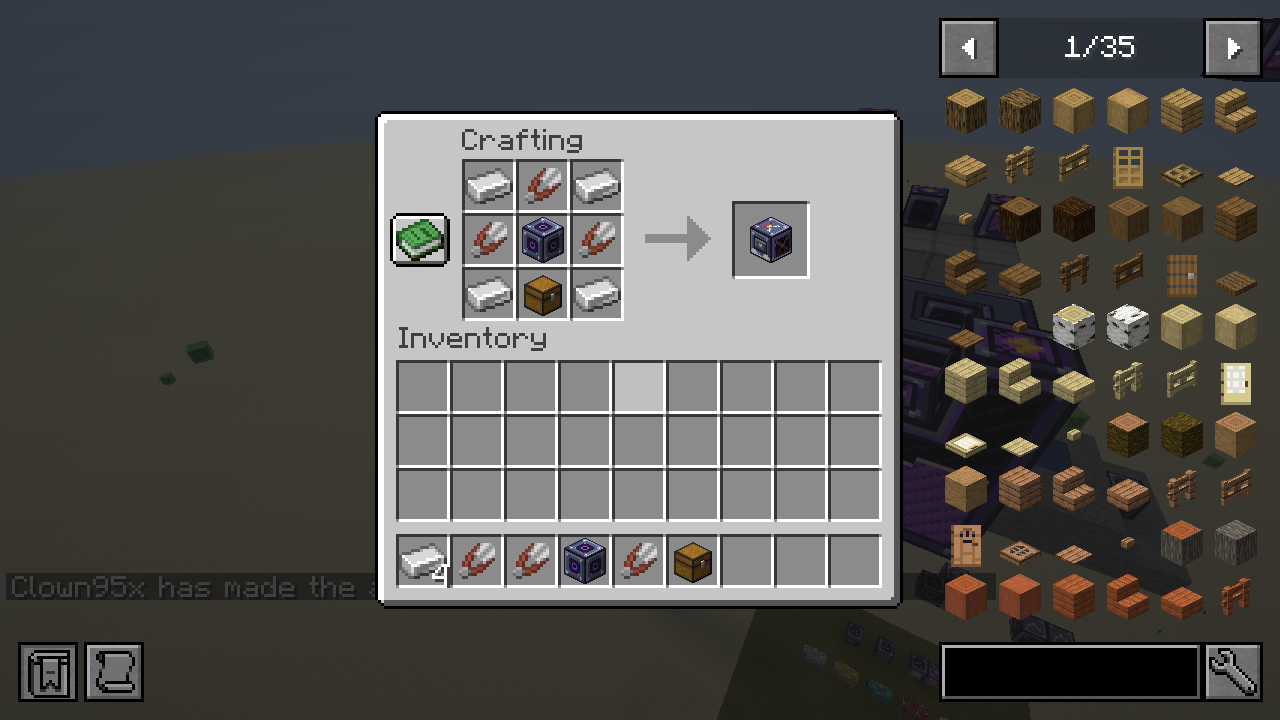
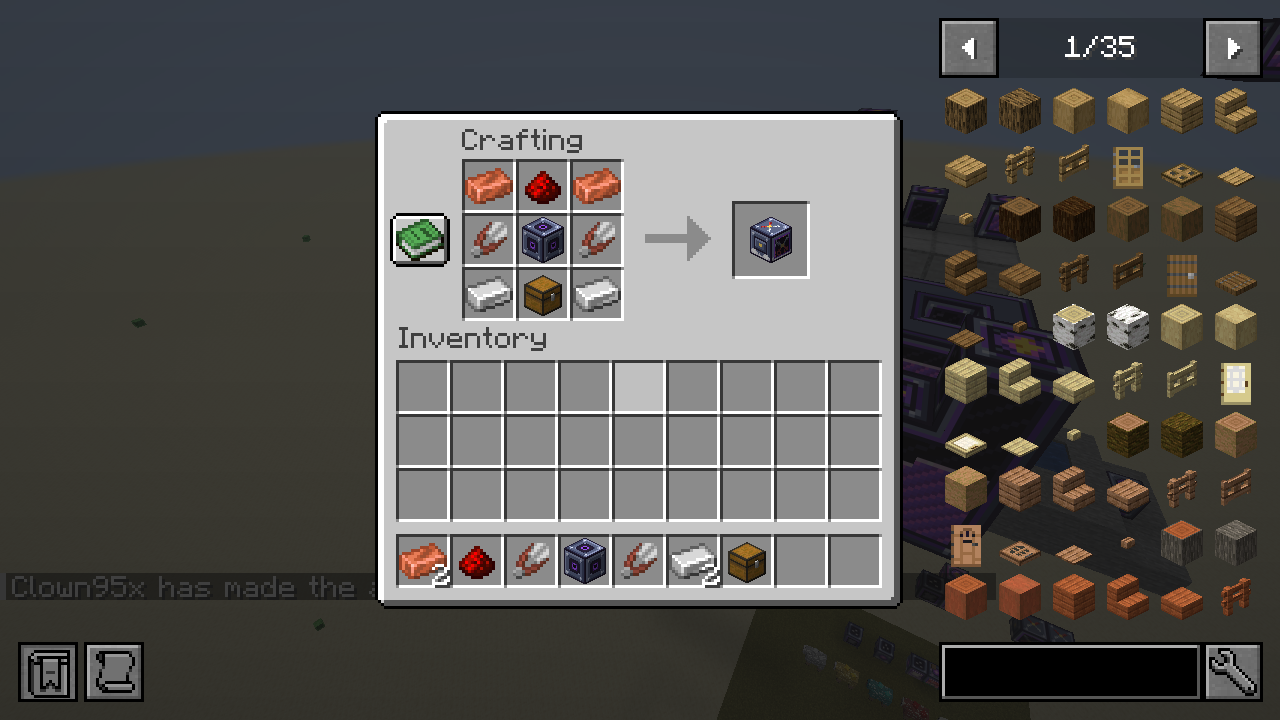
Match the generator script and recipe screenshots to the updated recipes
The Automatic Shears, Fluid Reservoir and Mycelial Generator recipes were
changed on GitHub; generate_data.py now writes the same recipes so a
regeneration keeps them, and their screenshots and README descriptions
show the new layouts.

Claude-Session: https://claude.ai/code/session_012iurxobutw9xMP3SqHHLFE

diff --git a/tools/sheep/generate_data.py b/tools/sheep/generate_data.py
@@ -541,8 +541,10 @@ def recipes_loot_tags():
             "S": "minecraft:shears",
             "M": f"{MOD}:functional_machine_block",
             "C": "minecraft:chest",
+            "R": "minecraft:redstone",
+            "T": "minecraft:copper_ingot",
         },
-        "pattern": ["ISI", "SMS", "ICI"],
+        "pattern": ["TRT", "SMS", "ICI"],
         "result": {"id": f"{MOD}:automatic_shears"},
     })
     write(os.path.join(DATA, MOD, "recipe", "hume_energy_cube.json"), {
@@ -565,7 +567,7 @@ def recipes_loot_tags():
             "G": "#c:glass_blocks",
             "B": "minecraft:bucket",
             "M": f"{MOD}:functional_machine_block",
-            "C": "minecraft:cauldron",
+            "C": "minecraft:hopper",
         },
         "pattern": ["IBI", "GMG", "ICI"],
         "result": {"id": f"{MOD}:fluid_reservoir"},

diff --git a/README.md b/README.md
@@ -71,7 +71,7 @@ Every machine is built around a **Functional Machine Block**: the blue-steel cas
 
 ### Crafting
 
-![Mycelial Generator recipe: iron ingots in the corners, a red mushroom top middle, brown mushrooms left and right, a Functional Machine Block in the centre, a cauldron bottom middle](docs/screenshots/recipe_mycelial_generator.png)
+![Mycelial Generator recipe: iron ingots top left and right, a red mushroom top middle, brown mushrooms left and right, a Functional Machine Block in the centre, copper ingots bottom left and right, a cauldron bottom middle](docs/screenshots/recipe_mycelial_generator.png)
 
 The generator is mined with any pickaxe and drops itself. Its inventory is dropped when it is broken.
 
@@ -216,7 +216,7 @@ An FE-powered machine that shears sheep for you and keeps the wool.
 - **Which mobs:** only those in the entity tag `#barelyfunctionalcontraptions:auto_shearable`, which is sheep by default. It never turns a mooshroom into a cow or takes a snow golem's pumpkin.
 - Its shears never wear out. Mine it with a stone pickaxe or better. When broken it keeps its stored energy and redstone mode, like the separator, and its wool drops on the ground.
 
-![Automatic Shears recipe: iron ingots in the corners, shears top, left and right, a Functional Machine Block in the centre, a chest bottom middle](docs/screenshots/recipe_automatic_shears.png)
+![Automatic Shears recipe: copper ingots top left and right, redstone top middle, shears left and right, a Functional Machine Block in the centre, iron ingots bottom left and right, a chest bottom middle](docs/screenshots/recipe_automatic_shears.png)
 
 | GUI |
 |---|
@@ -241,7 +241,7 @@ A water source for your machines. Put it **directly on top of an infinite water 
 - **GUI:** right-click with an empty hand. It shows a water gauge with a mark per bucket, the stored amount, the bucket slots, and a status lamp: *Filling*, *Tank Full*, *Source Not Infinite* or *No Water Source*. Hover over things for details.
 - Mine it with a stone pickaxe or better. The water in it is lost when it's broken.
 
-![Fluid Reservoir recipe: iron ingots in the corners, a bucket top middle, glass either side of a Functional Machine Block, a cauldron bottom middle](docs/screenshots/recipe_fluid_reservoir.png)
+![Fluid Reservoir recipe: iron ingots in the corners, a bucket top middle, glass either side of a Functional Machine Block, a hopper bottom middle](docs/screenshots/recipe_fluid_reservoir.png)
 
 Any glass block works.
 
